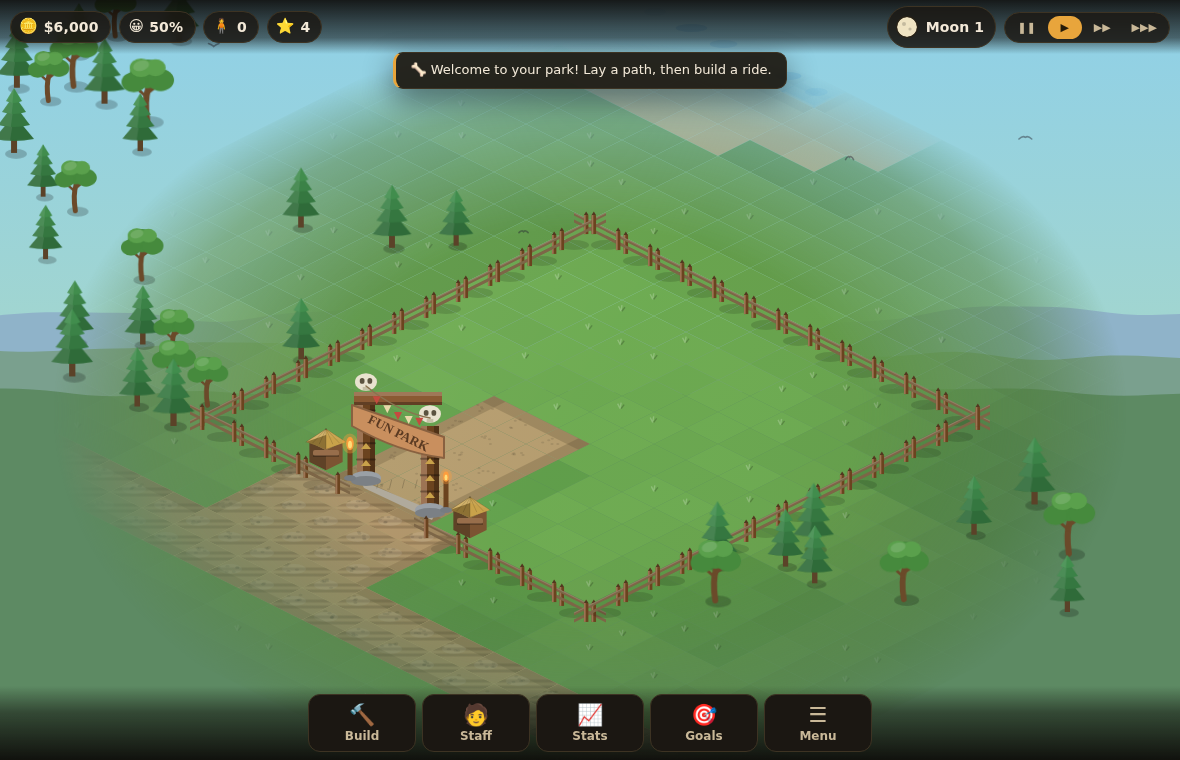
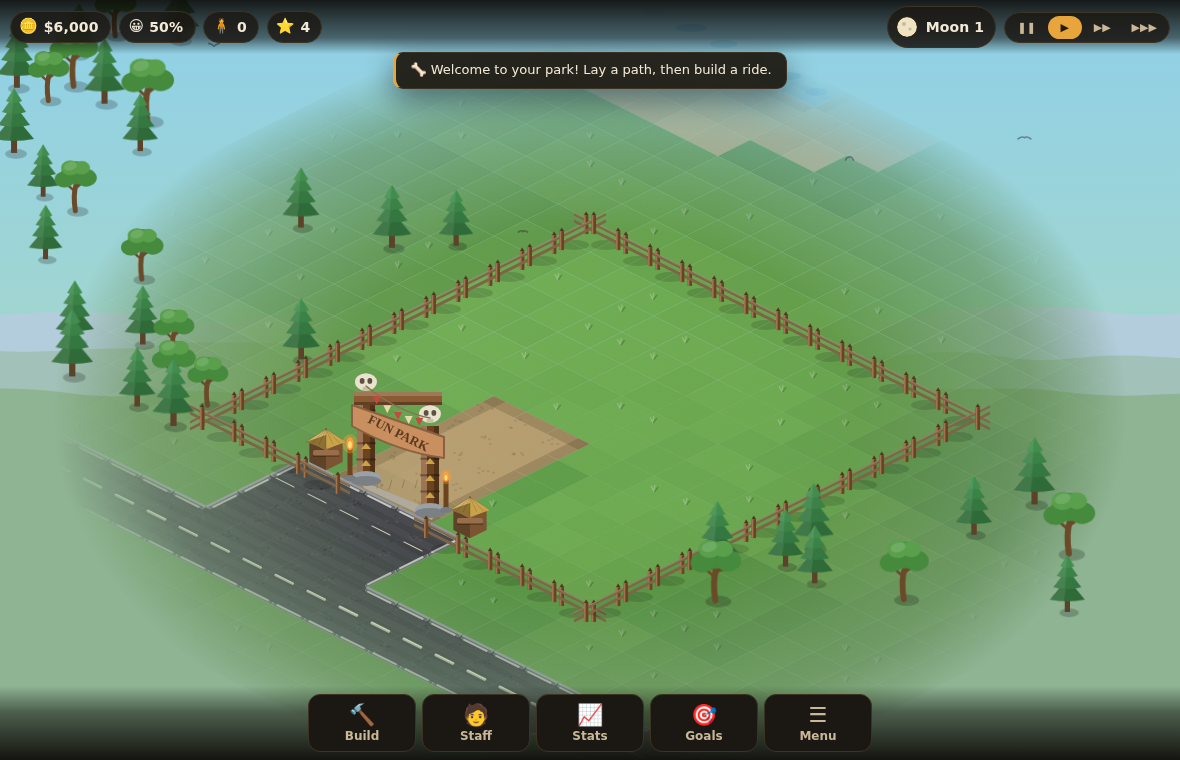
Make the outside road proper tarmac
The dirt track read as a smear of mud. It is now a metalled two-lane road:
dark asphalt with light and dark aggregate, worn wheel tracks along the
direction of travel, a raised kerb with a white edge line where it meets
open ground, and a dashed centre line between the lanes. The apron up to
the gateway is paved to match, without a centre line.

Markings are drawn along tile edges with a shared helper, so they line up
from tile to tile, and road tiles are filled a shade oversized so no
hairline seams show between them.

Also softens the distant ridges toward the sky colour, so they read as haze
through the faded edge of the land rather than a grey streak across it.

Claude-Session: https://claude.ai/code/session_018qPjfad7HhG7zbviXPezQJ

Changed region(s): [[0.0, 0.3934, 0.4881, 0.9382], [0.6712, 0.3934, 1.0, 0.9382]]

diff --git a/js/render.js b/js/render.js
@@ -64,6 +64,32 @@ const renderer = {
     return t * 0.34;
   },
 
+  /* the two world-space corners of one edge of a tile, pulled `inset` of the
+     way toward the tile centre (0 = on the edge, 0.5 = at the middle) */
+  tileEdge(x, y, dx, dy, inset) {
+    const c = (tx, ty) => [isoX(tx, ty), isoY(tx, ty)];
+    let a, b;
+    if (dx === 1) { a = c(x + 1, y); b = c(x + 1, y + 1); }
+    else if (dx === -1) { a = c(x, y); b = c(x, y + 1); }
+    else if (dy === 1) { a = c(x, y + 1); b = c(x + 1, y + 1); }
+    else { a = c(x, y); b = c(x + 1, y); }
+    const mid = [isoX(x + 0.5, y + 0.5), isoY(x + 0.5, y + 0.5)];
+    const pull = (p) => [lerp(p[0], mid[0], inset), lerp(p[1], mid[1], inset)];
+    return [pull(a), pull(b)];
+  },
+
+  /* a stroke along part of a tile edge — used for kerbs and road markings */
+  edgeStroke(ctx, x, y, dx, dy, inset, from, to, width, color, round) {
+    const [a, b] = this.tileEdge(x, y, dx, dy, inset);
+    ctx.strokeStyle = color;
+    ctx.lineWidth = width;
+    ctx.lineCap = round ? 'round' : 'butt';
+    ctx.beginPath();
+    ctx.moveTo(lerp(a[0], b[0], from), lerp(a[1], b[1], from));
+    ctx.lineTo(lerp(a[0], b[0], to), lerp(a[1], b[1], to));
+    ctx.stroke();
+  },
+
   drawTile(ctx, x, y) {
     const g = park.terrainAt(x, y);
     const cx = isoX(x + 0.5, y + 0.5), cy = isoY(x + 0.5, y + 0.5);
@@ -155,34 +181,68 @@ const renderer = {
         ctx.restore();
       }
     } else if (g === GROUND.ROAD) {
-      /* packed earth with cart ruts */
-      ctx.fillStyle = '#b79a6d';
-      diamond(ctx, cx, cy, TILE_W, TILE_H); ctx.fill();
+      const isRoad = (tx, ty) => park.terrainAt(tx, ty) === GROUND.ROAD;
+      const n = isRoad(x, y - 1), so = isRoad(x, y + 1), e = isRoad(x + 1, y), w = isRoad(x - 1, y);
+
+      /* tarmac — drawn a shade oversized so no seam shows between tiles */
+      ctx.fillStyle = '#3b3e44';
+      diamond(ctx, cx, cy, TILE_W + 1.5, TILE_H + 1); ctx.fill();
       ctx.save();
       diamond(ctx, cx, cy, TILE_W, TILE_H); ctx.clip();
-      ctx.strokeStyle = 'rgba(124,100,66,.45)'; ctx.lineWidth = 3;
-      for (const off of [-6, 6]) {
+      /* aggregate: a little light and dark grit so it is not flat black */
+      for (let i = 0; i < 14; i++) {
+        const a = hash2(x * 17 + i, y * 23 + i), b2 = hash2(x * 11 + i, y * 7 + i);
+        ctx.fillStyle = i % 3 ? 'rgba(255,255,255,.055)' : 'rgba(0,0,0,.22)';
         ctx.beginPath();
-        ctx.moveTo(cx - TILE_W / 2, cy + off * 0.5); ctx.lineTo(cx + TILE_W / 2, cy + off * 0.5 - TILE_H / 2 + TILE_H / 2);
-        ctx.stroke();
-      }
-      ctx.fillStyle = 'rgba(255,255,255,.10)';
-      ctx.beginPath(); ctx.ellipse(cx - 8, cy - 3, 12, 5, 0, 0, Math.PI * 2); ctx.fill();
-      ctx.fillStyle = 'rgba(0,0,0,.10)';
-      for (let i = 0; i < 6; i++) {
-        const a = hash2(x * 9 + i, y * 5 + i), b2 = hash2(x * 4 + i, y * 8 + i);
-        ctx.beginPath();
-        ctx.ellipse(cx + (a - 0.5) * 40, cy + (b2 - 0.5) * 18, 2, 1.2, 0, 0, Math.PI * 2);
+        ctx.ellipse(cx + (a - 0.5) * 56, cy + (b2 - 0.5) * 26, 1.5, 0.9, 0, 0, Math.PI * 2);
         ctx.fill();
       }
+      /* faint worn wheel tracks along the direction of travel */
+      ctx.globalAlpha = 0.5;
+      const along = (e || w) ? 1 : 0;
+      for (const off of [-0.22, 0.22]) {
+        ctx.strokeStyle = 'rgba(180,182,188,.13)';
+        ctx.lineWidth = 7;
+        ctx.beginPath();
+        if (along) {
+          ctx.moveTo(isoX(x, y + 0.5 + off), isoY(x, y + 0.5 + off));
+          ctx.lineTo(isoX(x + 1, y + 0.5 + off), isoY(x + 1, y + 0.5 + off));
+        } else {
+          ctx.moveTo(isoX(x + 0.5 + off, y), isoY(x + 0.5 + off, y));
+          ctx.lineTo(isoX(x + 0.5 + off, y + 1), isoY(x + 0.5 + off, y + 1));
+        }
+        ctx.stroke();
+      }
+      ctx.globalAlpha = 1;
       ctx.restore();
-      for (const d of [[1, 0], [-1, 0], [0, 1], [0, -1]]) {
-        if (park.terrainAt(x + d[0], y + d[1]) === GROUND.ROAD) continue;
+
+      /* kerb and a strip of worn verge wherever the tarmac meets open ground */
+      for (const [dx, dy, has] of [[0, -1, n], [0, 1, so], [1, 0, e], [-1, 0, w]]) {
+        if (has) continue;
+        this.edgeStroke(ctx, x, y, dx, dy, 0.03, 0, 1, 5, '#8e9299');
+        this.edgeStroke(ctx, x, y, dx, dy, 0.10, 0, 1, 2, 'rgba(0,0,0,.28)');
+        this.edgeStroke(ctx, x, y, dx, dy, 0.17, 0.05, 0.95, 2.2, 'rgba(236,236,230,.75)');
+      }
+
+      /* centre line: dashes down the middle of a two-lane carriageway */
+      const twoLane = (e || w) && (n !== so);
+      if (twoLane) {
+        const dir = so ? 1 : -1;                    /* the lane divider side */
+        this.edgeStroke(ctx, x, y, 0, dir, 0.015, 0.18, 0.72, 2.6, 'rgba(240,236,214,.85)', true);
+      }
+      /* the apron in front of the gateway gets a crossing instead */
+      if ((n || so) && !e && !w) {
         ctx.save();
         diamond(ctx, cx, cy, TILE_W, TILE_H); ctx.clip();
-        ctx.fillStyle = 'rgba(70,55,30,.18)';
-        const ex = cx + (d[0] - d[1]) * TILE_W * 0.34, ey = cy + (d[0] + d[1]) * TILE_H * 0.34;
-        diamond(ctx, ex, ey, TILE_W, TILE_H); ctx.fill();
+        ctx.strokeStyle = 'rgba(238,238,230,.7)';
+        ctx.lineWidth = 5;
+        for (let i = 0; i < 4; i++) {
+          const f = 0.18 + i * 0.22;
+          ctx.beginPath();
+          ctx.moveTo(isoX(x + f, y), isoY(x + f, y));
+          ctx.lineTo(isoX(x + f, y + 1), isoY(x + f, y + 1));
+          ctx.stroke();
+        }
         ctx.restore();
       }
     } else if (g === GROUND.WATER) {
@@ -395,9 +455,9 @@ const renderer = {
      valley feels like it continues past the edge of the land. */
   drawHorizon(ctx, light) {
     const layers = [
-      { amp: 34, base: 0.40, seed: 2.3, par: 0.035, col: mixColor('#1b2740', '#8fb3c9', light) },
-      { amp: 26, base: 0.46, seed: 7.1, par: 0.065, col: mixColor('#1f2c3c', '#7aa08e', light) },
-      { amp: 20, base: 0.52, seed: 4.7, par: 0.10, col: mixColor('#22302c', '#5d8a63', light) }
+      { amp: 34, base: 0.40, seed: 2.3, par: 0.035, col: mixColor('#243049', '#b3cddc', light) },
+      { amp: 26, base: 0.46, seed: 7.1, par: 0.065, col: mixColor('#28374a', '#a2c1b8', light) },
+      { amp: 20, base: 0.52, seed: 4.7, par: 0.10, col: mixColor('#2b3a3a', '#8fb493', light) }
     ];
     for (const L of layers) {
       const yBase = this.H * L.base - (view.y - 600) * L.par * view.zoom;
@@ -940,7 +1000,8 @@ const renderer = {
     for (let y = 0; y < GRID_H; y++) for (let x = 0; x < GRID_W; x++) {
       const g = park.ground[park.idx(x, y)];
       if (g === GROUND.GRASS) continue;
-      ctx.fillStyle = g === GROUND.WATER ? '#2f7fb5' : g === GROUND.SAND ? '#d9c48a' : g === GROUND.STONE ? '#b9bcc4' : '#b39a6c';
+      ctx.fillStyle = g === GROUND.WATER ? '#2f7fb5' : g === GROUND.SAND ? '#d9c48a'
+        : g === GROUND.STONE ? '#b9bcc4' : g === GROUND.ROAD ? '#3b3e44' : '#b39a6c';
       ctx.fillRect(x * s, y * s, s, s);
     }
     for (const b of park.buildings.values()) {

diff --git a/README.md b/README.md
@@ -14,8 +14,8 @@ You begin with four plots — a clearing, a gateway and the road:
 
 ![The starting clearing, fenced, with forest all around](docs/screenshots/start.png)
 
-Carts, wagons and mammoth buses queue on the road and set visitors down at the
-gateway; nothing on wheels comes inside the park:
+Carts, wagons and mammoth buses queue on the tarmac outside and set visitors down
+at the gateway; nothing on wheels comes inside the park:
 
 ![Vehicles at the gate dropping visitors off](docs/screenshots/gate.png)
 
@@ -56,9 +56,10 @@ The game saves to `localStorage` automatically at every new moon, and from
 * **You only own a clearing to begin with.** Land is bought a 6×6 plot at a time
   from the **Land** tab; each plot costs more than the last, and buying one clears
   the forest and moves the palisade out. You can only build on land you own.
-* **Visitors arrive by road.** Dino carts, hide wagons and mammoth buses pull up
-  at the gateway, set their passengers down and queue behind one another while
-  they unload. Visitors walk in under the banner; vehicles never come inside.
+* **Visitors arrive by road.** A metalled two-lane road runs past the park, with
+  kerbs, edge lines and a dashed centre line, and an apron up to the gateway.
+  Dino carts, hide wagons and mammoth buses pull up there, set their passengers
+  down and queue behind one another while they unload. Visitors walk in under the banner; vehicles never come inside.
   People going home walk back out and wait at the roadside for a lift.
 * **Visitors only walk on paths.** Pave a route out of the gate first. Stone paths
   are more comfortable than gravel.
